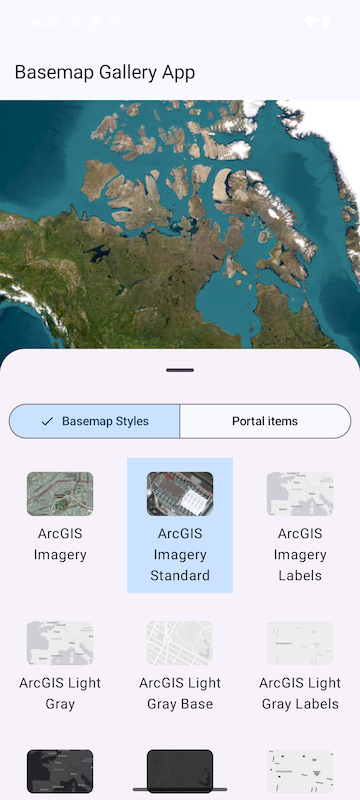
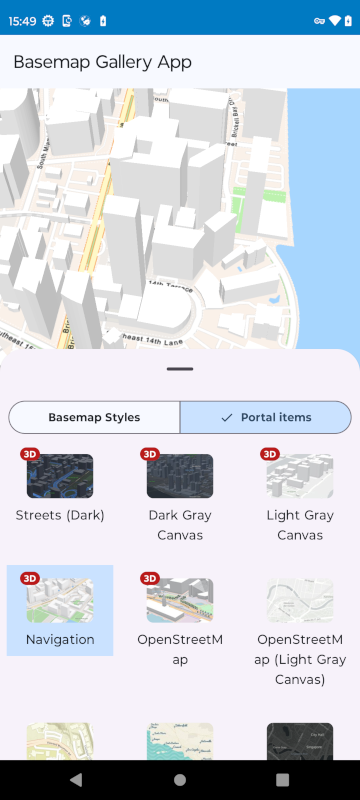
BasemapGalleryApp: update the README and screenshot

diff --git a/microapps/BasemapGalleryApp/README.md b/microapps/BasemapGalleryApp/README.md
@@ -1,14 +1,15 @@
 # Basemap Gallery Micro-app
 
 This micro-app demonstrates the use of the `BasemapGallery` toolkit component which allows browsing
-a selection of basemaps and setting them on the map.
+a selection of basemaps and setting them on a map or scene.
 
 ![Screenshot](screenshot.png)
 
 ## Usage
 
-The application shows a map view and a bottom sheet containing a basemap gallery and a segmented
-button for selecting to display basemaps from a Basemaps Style service or a Portal. Once the gallery
-has been populated clicking on a basemap will set that basemap on the map in the map view.
+The application shows a scene view and a bottom sheet containing a basemap gallery and a segmented
+button for selecting to display basemaps from a Basemaps Style service or a Portal. In the case of
+the Portal, 3D basemaps are highlighted using a "3D" badge. Once the gallery has been populated,
+clicking on a basemap will set that basemap on the scene in the scene view.
 
 For more information on the `BasemapGallery` component and how it works, see its [Readme](../../toolkit/basemapgallery/README.md).
